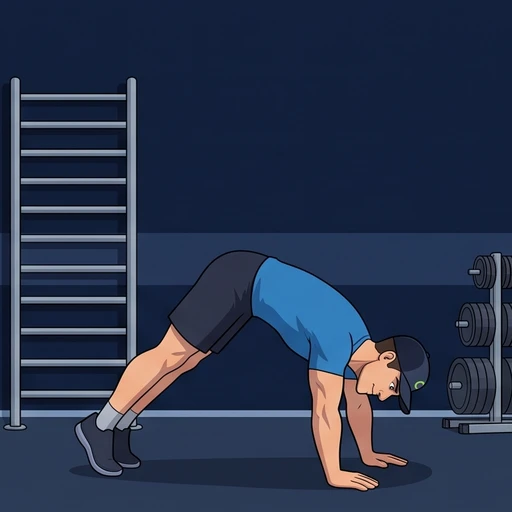
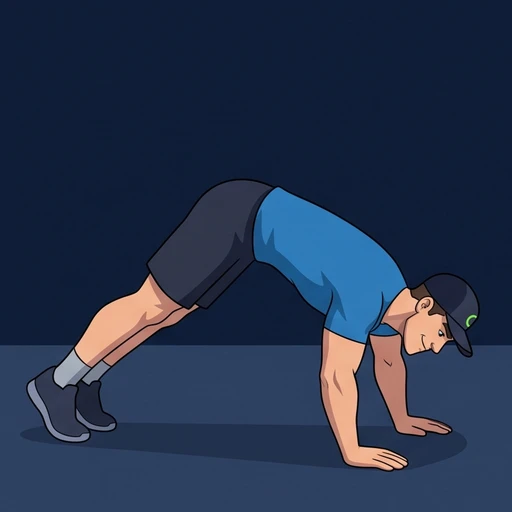
Lever-up: nieuwe Lev-poses (v2), Duwen-beelden bijgewerkt, bronbladen toegevoegd

diff --git a/lever-up.html b/lever-up.html
@@ -244,11 +244,12 @@ h1,h2,h3,.btn,.chip,.clock,.kc-name,.big,.sess b,.facts dd,.nr,.kc-amt,.ex-head 
 .nextup b{color:var(--ink);font-weight:600}
 .runact{margin-top:auto;padding-top:16px;width:100%;display:flex;flex-direction:column;gap:6px}
 .runact .row{gap:10px}
+.runact .btn{min-height:64px;font-size:20px}
+.prev{color:var(--muted);font-size:15px;margin:0}
 
-.restpic img{object-position:50% 25%}
 .run .hero{width:100%}
-.run .heroin{width:100%;max-width:360px;height:auto}
-.drain{width:100%;max-width:360px;height:8px;border-radius:99px;background:var(--tint);overflow:hidden}
+.run .heroin{width:100%;max-width:min(340px,40vh);height:auto;aspect-ratio:1}
+.drain{width:100%;max-width:min(340px,40vh);height:8px;border-radius:99px;background:var(--tint);overflow:hidden}
 .drain i{display:block;height:100%;background:var(--accent);border-radius:99px;transition:width 1s linear}
 @keyframes breathe{0%,100%{transform:scale(1)}50%{transform:scale(1.04)}}
 .restnum{font-family:var(--display);font-size:44px;font-weight:var(--dw);font-variant-numeric:tabular-nums;line-height:1}
@@ -739,6 +740,10 @@ function focusOf(plan){
   return Object.keys(c).sort(function(a,b){return c[b]-c[a];}).slice(0,3).map(function(k){return MLABEL[k].toLowerCase();}).join(", ");
 }
 function shortAmount(e){var t=/^(\d+)s$/.exec(String(e.reps).trim());return e.sets+" \u00d7 "+(t?t[1]+"s":esc(e.reps))+(e.per?" per "+e.per:"");}
+function lastTime(name){
+  for(var i=S.sessions.length-1;i>=0;i--){var x=(S.sessions[i].ex||[]).filter(function(y){return y.n===name;})[0];if(x)return 'Vorige keer: '+x.d+' van '+x.s+' ronde'+(x.s===1?'':'s');}
+  return '';
+}
 function viewRun(){
   var pos=runPos();if(!pos){running=false;return viewToday();}
   var plan=pos.plan,e=pos.e,rs=remainingSets(plan,S.draft),timed=isTimed(e);
@@ -764,6 +769,7 @@ function viewRun(){
   }else h+='<div class="amount"><b>'+esc(e.reps)+'</b><span>reps'+(e.per?' per '+e.per:'')+'</span></div>';
   var nxt=null;if(pos.k===e.sets-1){for(var j=pos.i+1;j<plan.length;j++){if(!(S.draft.skip&&S.draft.skip[j])){nxt=plan[j];break;}}}
   h+='<p class="nextup">'+(nxt?'Straks: <b>'+esc(nxt.n)+'</b>':(pos.k===e.sets-1?'Dit is de laatste ronde':''))+'</p>';
+  var lt=lastTime(e.n);if(lt&&pos.k===0)h+='<p class="prev">'+lt+'</p>';
   h+=levCue(e.n);
   h+='<div class="runact">';
   if(timed)h+=(runT.state==="idle"?'<button class="btn" data-act="rstart">Start</button>':'<button class="btn ghost" data-act="rstart">Stop</button>');

diff --git a/sw.js b/sw.js
@@ -1,7 +1,7 @@
 /* Lever-up service worker: app-schil vooraf in de cache, de rest (plaatjes, lettertype) bij eerste gebruik.
    De pagina zelf komt eerst van het netwerk (nieuwe versie meteen) en alleen offline uit de cache; plaatjes en lettertype komen uit de cache en worden op de achtergrond ververst.
    Verander VERSION om de oude cache bij het volgende bezoek leeg te gooien. */
-var VERSION="lever-up-v39";
+var VERSION="lever-up-v42";
 var CORE=[
   "lever-up.html",
   "manifest.webmanifest",

diff --git a/docs/prompts-gemini.md b/docs/prompts-gemini.md
@@ -30,9 +30,11 @@ Gebruik de bijgevoegde karakterreferentie voor Lev: een atletische man van rond 
 
 Stijl: platte 2D-cartoon, schone dikke contouren, vlakke kleurvlakken met eenvoudige schaduwvlakken, geen gradients, geen fotorealisme, geen 3D-glans. Lichtinval altijd van linksboven, zachte schaduw op de vloer rechts van Lev. Geen tekst, geen logo's, geen watermerk, geen extra personen.
 
-Vaste ruimte (in elk beeld identiek): een donkere sportschool, vlak getekend. Achterwand effen donkerblauw (#101c38) met één iets lichtere horizontale paneelband op 45% van de hoogte. Vloer donker leisteenblauw (#1a2540) met één dunne lichtere lijn op de wandrand. Links aan de rand een stukje klimrek (wall bars) in staal, rechts aan de rand een rek met gewichtsschijven, beide gedempt en nauwelijks afleidend, altijd op dezelfde plek. Geen ramen, geen publiek. Kleurpalet beperkt tot marineblauw, leisteen, Lev's blauw en huidtinten; lime alleen als ringetje op de pet.
+Achtergrond (in elk beeld identiek): volledig effen donkerblauw (#101c38), geen wand, geen paneelband, geen rek, geen schijven, geen ramen, geen verloop. Alleen een egale vloer in iets lichter leisteenblauw (#1a2540) met een zachte schaduw onder Lev en de uitrusting, vloerlijn op 82% van de hoogte. Niets anders in beeld dan Lev en de uitrusting van de oefening. Kleurpalet beperkt tot marineblauw, leisteen, Lev's blauw, huidtinten en staal-grijs voor de uitrusting; lime alleen als ringetje op de pet.
 
-Camera (vast): zijaanzicht op borsthoogte, horizontaal, geen perspectiefvertekening. Lev staat of ligt in het midden van het beeld, volledig in beeld, ongeveer 70% van de beeldhoogte, ruime marge rondom. De vloerlijn ligt op 82% van de hoogte, handen en voeten raken die lijn. De uitrusting voor de oefening staat in het midden bij Lev.
+Camera (vast): zijaanzicht op borsthoogte, horizontaal, geen perspectiefvertekening. Lev en zijn uitrusting staan als één geheel in het midden, volledig in beeld, met ruime marge rondom. De hele uitrusting past in het beeld, ook de stang of de palen helemaal tot boven en onder. Lev is ongeveer 60% van de beeldhoogte; de uitrusting mag hoger zijn.
+
+Uitvoering: toon de oefening technisch exact zoals beschreven, in het midden van de beweging, zonder extra bewegingen of hulpmiddelen. Bij twijfel: de beschrijving volgt letterlijk, geen eigen interpretatie.
 ```
 
 ## Volgende 1: Lev-poses (1 blad)
@@ -66,10 +68,16 @@ Bovenste rij: 1. Incline push-ups: handen op een stevige bank, schuine plank. 2.
 Onderste rij: 4. Pike push-ups: omgekeerde V op de vloer, hoofd tussen de armen. 5. Parallette push-ups: twee lage parallettes, borst laag ertussen. 6. Ring push-ups: handen op lage ringen, push-up.
 ```
 
+**Uitvoeringsregels (herhaal in elk blad)**: de prompts hieronder beschrijven elke oefening met vier vaste punten: houding van het lichaam, plek en vorm van de uitrusting, handgreep en richting. Gemini verwisselt anders hangen en duwen en chin-up en pull-up. Voeg dit toe onder de beschrijvingen:
+
+```
+Let op: dit zijn trek- en hangbewegingen waar dat staat. Bij elke hangoefening hangt Lev ONDER de stang of ringen met zijn armen boven zijn hoofd, zijn voeten van de grond (behalve bij ring rows). Hij staat of ligt NIET op de grond te duwen. De stang is een horizontale stalen stang tussen twee verticale palen; de palen zijn minstens 40 cm langer dan Lev lang is en staan volledig in beeld, de stang zit boven Lev's hoofd. Handgreep: pull-up = handpalmen van Lev af (overhand, schouderbreed of iets breder); chin-up = handpalmen naar Lev toe (onderhand, schouderbreed); ringen = neutraal, handpalmen naar elkaar. Controleer: palen hoger dan de persoon, juiste greep, juiste houding.
+```
+
 **Blad Trekken** (`cards-trekken.png`, volgorde t1a t1b t2a t2b t3a t3b)
 ```
-Bovenste rij: 1. Ring rows, hoge hoek: bijna rechtop hangend aan ringen, borst naar de ringen. 2. Scapula-hang: hangend aan een rekstok, armen gestrekt, schouders omlaag getrokken. 3. Ring rows, lage hoek: bijna horizontaal onder de ringen.
-Onderste rij: 4. Chin-up negatives: boven de stang, langzaam zakkend. 5. Pull-ups: strakke pull-up, kin boven de stang. 6. Ring rows, voeten verhoogd: horizontaal onder de ringen, voeten op een lage houten kist.
+Bovenste rij: 1. Ring rows, hoge hoek: bijna rechtop hangend aan ringen, borst naar de ringen. 2. Scapula-hang: Lev hangt onder een rekstok met gestrekte armen boven zijn hoofd, voeten van de grond, overhandse greep (handpalmen van hem af), schouders omlaag getrokken. 3. Ring rows, lage hoek: bijna horizontaal onder de ringen.
+Onderste rij: 4. Chin-up negatives: Lev hangt onder de stang met onderhandse greep (handpalmen naar hem toe), armen half gebogen, kin net boven de stang, langzaam zakkend. 5. Pull-ups: Lev hangt onder de stang met overhandse greep (handpalmen van hem af), kin boven de stang, voeten van de grond. 6. Ring rows, voeten verhoogd: horizontaal onder de ringen, voeten op een lage houten kist.
 ```
 
 **Blad Core** (`cards-core.png`, volgorde c1a c1b c2a c2b c3a c3b)
@@ -82,6 +90,43 @@ Onderste rij: 4. Hanging knee raises: hangend aan een stang, knieën naar de bor
 ```
 Bovenste rij: 1. Squats: diepe squat, armen naar voren. 2. Glute bridges: liggend op een mat, heupen omhoog, schouders op de mat. 3. Split squats: diepe split squat, rechtop.
 Onderste rij: 4. Wall sit: rug plat tegen de muur, bovenbenen horizontaal. 5. Pistol squat naar bank: zakkend op één been naar een bank, het andere been gestrekt voor. 6. Jump squats: in de lucht, benen gestrekt, armen omhoog.
+```
+
+## Losse prompts: de vier hangoefeningen
+
+Eén plaatje per prompt, vierkant (1:1, bijvoorbeeld 2048 x 2048). Geef het karakterblad mee, plak het stijlblok en daarna de prompt. De regels staan in elke prompt zelf, zodat ze niet verloren gaan.
+
+Gedeeld voor alle vier (zit al in de prompts, hier ter controle): Lev hangt ONDER de stang, armen boven zijn hoofd; twee verticale stalen palen, minstens 40 cm hoger dan Lev, volledig in beeld van vloer tot boven; de stang horizontaal tussen de palen boven Lev; effen achtergrond.
+
+**Scapula-hang** (`t1b`)
+```
+Eén afbeelding, vierkant, van Lev in een scapula-hang. Zijaanzicht. Een horizontale stalen stang tussen twee verticale stalen palen; de palen staan helemaal in beeld, van de vloer tot boven de stang, en zijn duidelijk hoger dan Lev, de stang zit boven zijn hoofd. Lev hangt ONDER de stang, zijn voeten hangen vrij boven de vloer. Zijn armen zijn volledig gestrekt omhoog, overhandse greep: zijn handpalmen wijzen van hem af, handen iets breder dan zijn schouders. Zijn schouders zijn actief omlaag getrokken (hij hangt "gespannen", niet slap), borst iets naar voren. Hij kijkt rustig voor zich uit. Hij staat niet op de grond en hij duwt niet.
+```
+
+**Chin-up negatives** (`t2b`)
+```
+Eén afbeelding, vierkant, van Lev in de langzame zakkende fase van een chin-up. Zijaanzicht. Een horizontale stalen stang tussen twee verticale stalen palen; de palen staan helemaal in beeld, van de vloer tot boven de stang, en zijn duidelijk hoger dan Lev, de stang zit boven zijn hoofd. Lev hangt ONDER de stang, voeten vrij boven de vloer, kin net boven de stang, armen ongeveer halfgebogen. Onderhandse greep: zijn handpalmen wijzen NAAR HEM TOE, handen op schouderbreedte, duimen om de stang. Zijn gezicht toont inspanning en controle. Hij staat niet op de grond en hij duwt niet.
+```
+
+**Pull-ups** (`t3a`)
+```
+Eén afbeelding, vierkant, van Lev bovenaan een strakke pull-up. Zijaanzicht. Een horizontale stalen stang tussen twee verticale stalen palen; de palen staan helemaal in beeld, van de vloer tot boven de stang, en zijn duidelijk hoger dan Lev, de stang zit boven zijn hoofd. Lev hangt ONDER de stang, voeten vrij boven de vloer, zijn kin boven de stang, borst naar de stang, ellebogen naar beneden en naar achter. Overhandse greep: zijn handpalmen wijzen VAN HEM AF, handen iets breder dan schouderbreed. Zijn lichaam is recht en gespannen. Hij staat niet op de grond en hij duwt niet.
+```
+
+**Hanging knee raises** (`c2b`)
+```
+Eén afbeelding, vierkant, van Lev bovenaan een hanging knee raise. Zijaanzicht. Een horizontale stalen stang tussen twee verticale stalen palen; de palen staan helemaal in beeld, van de vloer tot boven de stang, en zijn duidelijk hoger dan Lev, de stang zit boven zijn hoofd. Lev hangt ONDER de stang met gestrekte armen, overhandse greep (handpalmen van hem af), handen op schouderbreedte, voeten vrij boven de vloer. Zijn knieën zijn opgetrokken tot voor zijn borst, bovenbenen ongeveer horizontaal of hoger, onderbenen hangend, zijn bekken licht gekanteld. Hij staat niet op de grond en hij duwt niet.
+```
+
+Controle per resultaat: zijn de palen hoger dan Lev en volledig in beeld, hangt hij onder de stang, klopt de greep? Zo niet, zeg welk van de drie fout is.
+
+Knippen (één vierkant plaatje per bestand):
+
+```
+python3 tools/sheet-cut.py assets/_raw/hang-t1b.png assets/cards t1b --cols 1
+python3 tools/sheet-cut.py assets/_raw/hang-t2b.png assets/cards t2b --cols 1
+python3 tools/sheet-cut.py assets/_raw/hang-t3a.png assets/cards t3a --cols 1
+python3 tools/sheet-cut.py assets/_raw/hang-c2b.png assets/cards c2b --cols 1
 ```
 
 ## Later: begin- en eindposities (animatie)
